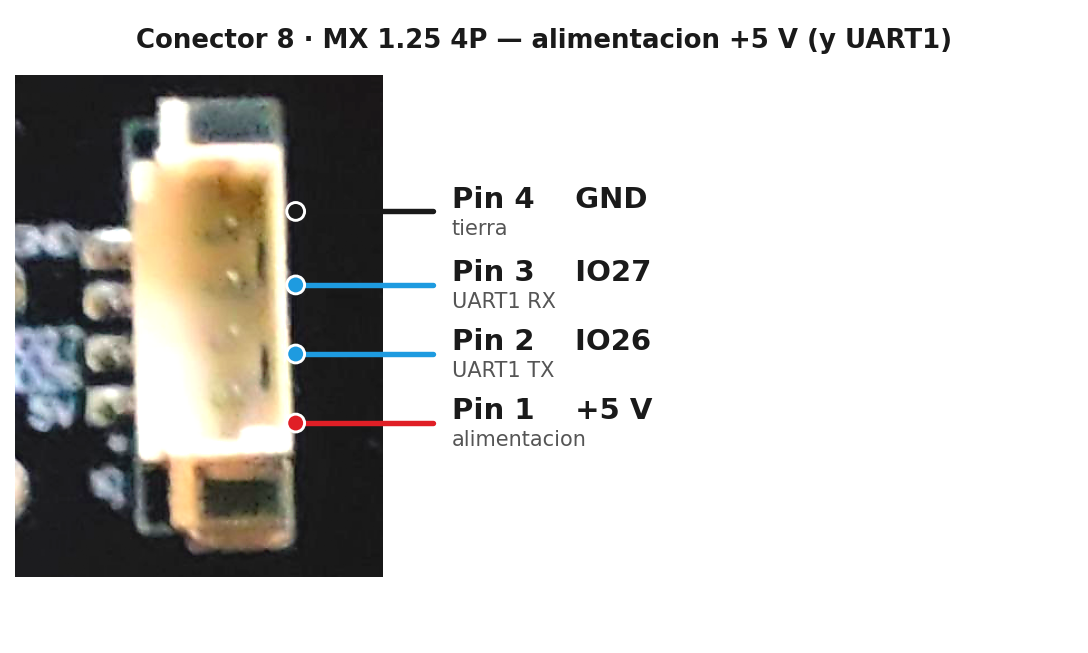
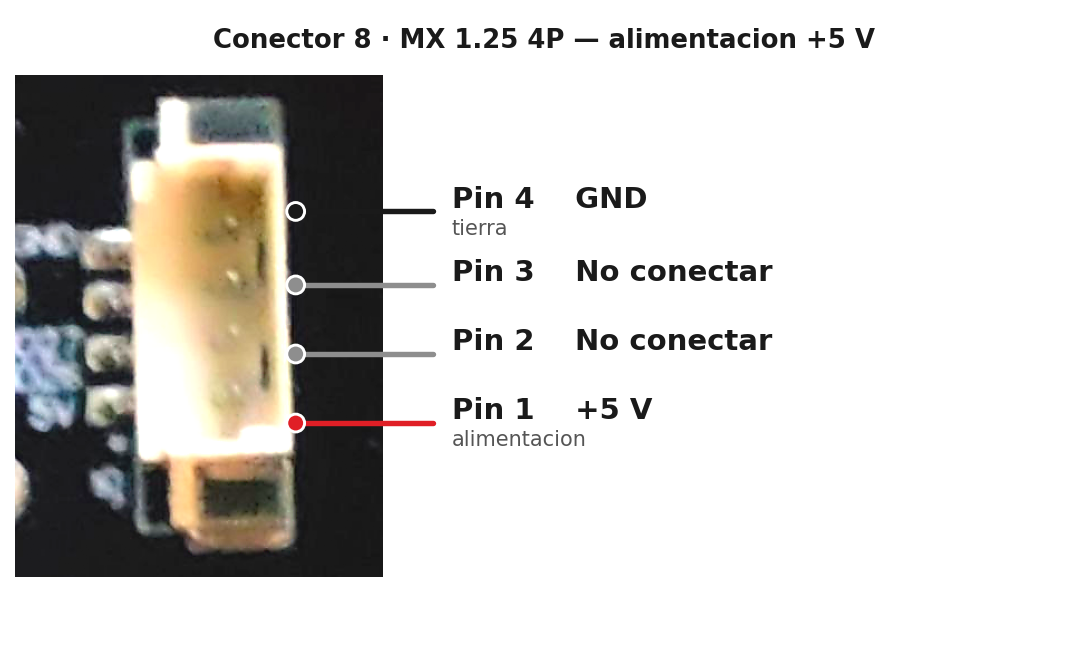
docs(pinout): JP1 solo 20 pines superiores (IDC 2x10) + conector 8 solo 5V/GND (resto 'No conectar')
- Seccion 15: nota de que el IDC 2x10 solo alcanza los pines 1-20 del header 2x13.
- Seccion 21: conector 8 marca solo +5V y GND; IO26/IO27 -> 'No conectar' (van al
  MAX485 del NE185, no usables). Quitado '(y UART1)' del titulo.

diff --git a/docs/pinout_guition_jc1060p470c_i.html b/docs/pinout_guition_jc1060p470c_i.html
@@ -275,6 +275,13 @@ respuesta de 20 bytes con cabeceras 0xFF en posiciones 0 y 14, checksum
 <div class="keep">
 <h2>15. JP1 — pines disponibles para periféricos externos</h2>
 
+<p style="background:#FFF6E5; border-left:4px solid #E8A500; padding:8px 12px; margin:8px 0 12px; font-size:9.5pt;">
+<strong>Solo se usan los 20 pines superiores (1–20).</strong> El conector IDC <strong>2×10</strong> disponible
+es más corto que el header <strong>2×13</strong>: se enchufa pegado al borde superior y solo alcanza hasta el
+<strong>pin 20</strong>. En el diagrama de abajo, los <strong>pines 21–26</strong> (las 3 filas inferiores:
+GPIO 33, radio del ESP32-C6 e I²C externo) quedan fuera del conector y no son accesibles.
+</p>
+
 <div class="jp1-grid">
   <img class="jp1" src="jp1_pinout.png" alt="JP1 pinout">
   <table>
@@ -386,10 +393,10 @@ programación / consola</strong> — por aquí se flashea y se lee el log (<code
 <div style="display:flex; gap:24px; align-items:flex-start; break-inside:avoid;">
 
 <div style="flex:1;">
-<h3 style="margin-top:0; color:#E01F26;">Conector 8 — alimentación +5 V (y UART1)</h3>
-<p class="small">Orden real leído en la serigrafía de la placa, de abajo (pin 1) a arriba (pin 4).
-Para alimentar: <strong>+5&nbsp;V al pin 1</strong> y <strong>GND al pin 4</strong>. Los pines
-IO26/IO27 son la UART1 (los mismos que atacan el MAX485 del NE185; normalmente sin conectar).</p>
+<h3 style="margin-top:0; color:#E01F26;">Conector 8 — alimentación +5 V</h3>
+<p class="small">Orden real leído en la serigrafía, de abajo (pin 1) a arriba (pin 4). De este conector
+solo se usan <strong>+5&nbsp;V (pin 1)</strong> y <strong>GND (pin 4)</strong> para alimentar. Los pines 2 y 3
+(IO26/IO27) <strong>no se deben conectar</strong>: están dedicados al MAX485 del NE185 (RS-485).</p>
 <img src="conector8_alim.png" style="width:100%; max-width:340px; display:block; margin:2px auto;" alt="Pinout del conector 8: 5V, IO26, IO27, GND">
 </div>
 

diff --git a/scripts/gen_conectores_alim_ne185.py b/scripts/gen_conectores_alim_ne185.py
@@ -17,7 +17,7 @@ import matplotlib.image as mpimg
 from matplotlib.patches import Circle
 
 DOCS = Path(__file__).resolve().parent.parent / "docs"
-C_5V, C_BUS, C_GND = "#E01F26", "#1E9BE0", "#1A1A1A"
+C_5V, C_BUS, C_GND, C_NA = "#E01F26", "#1E9BE0", "#1A1A1A", "#8E8E8E"
 
 
 def annotate(foto, title, right_x, pins, out):
@@ -49,12 +49,12 @@ def annotate(foto, title, right_x, pins, out):
 
 # Conector 8: arriba->abajo = GND(pin4), IO27(pin3), IO26(pin2), 5V(pin1)
 annotate("conector8_foto.png",
-         "Conector 8 · MX 1.25 4P — alimentacion +5 V (y UART1)",
+         "Conector 8 · MX 1.25 4P — alimentacion +5 V",
          252,
-         [(122, 4, "GND",  "tierra",        C_GND),
-          (188, 3, "IO27", "UART1 RX",      C_BUS),
-          (250, 2, "IO26", "UART1 TX",      C_BUS),
-          (312, 1, "+5 V", "alimentacion",  C_5V)],
+         [(122, 4, "GND",         "tierra",        C_GND),
+          (188, 3, "No conectar", "",              C_NA),
+          (250, 2, "No conectar", "",              C_NA),
+          (312, 1, "+5 V",        "alimentacion",  C_5V)],
          "conector8_alim.png")
 
 # Conector 11: arriba->abajo = GND(pin4), B(pin3), A(pin2), 5V(pin1)